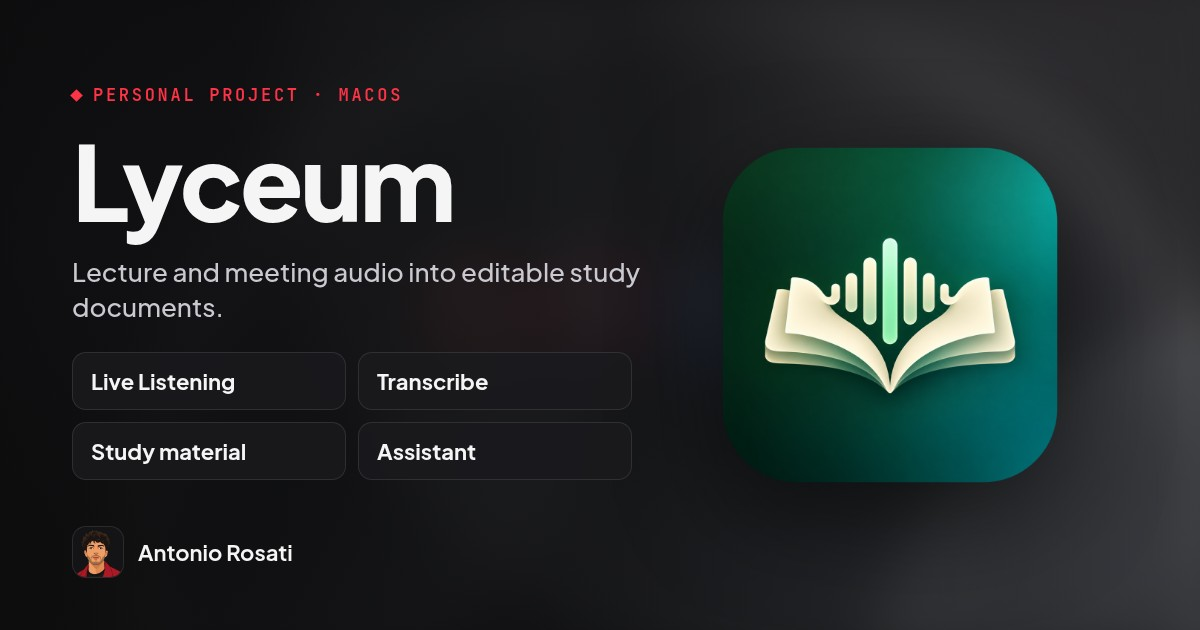
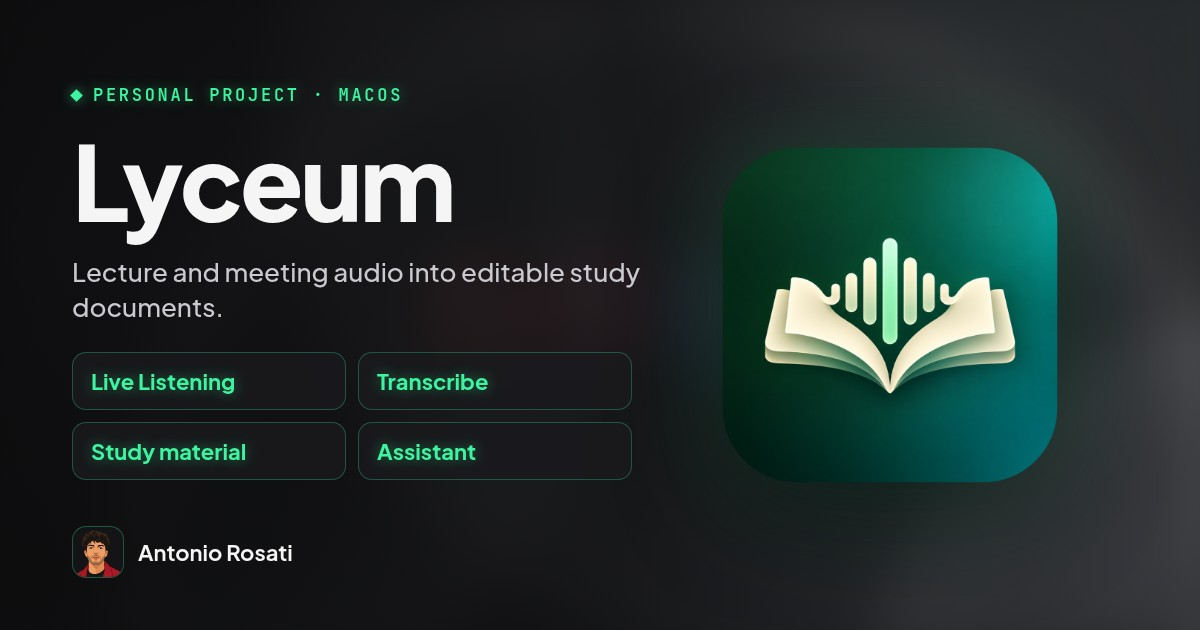
Make the Lyceum section fully green (#9)

diff --git a/css/style.css b/css/style.css
@@ -975,3 +975,67 @@ html[data-theme="dark"] .card-green { --lyc-green: #3DF5A0; --lyc-green-soft: rg
 .card-green .arrow-link svg { filter: drop-shadow(0 0 6px var(--lyc-green-glow)); }
 .card-green.card-glow::after { background: radial-gradient(70% 60% at 100% 0%, var(--lyc-green-soft), transparent 70%); }
 .card-green:hover { border-color: var(--lyc-green-line); }
+
+/* ---------- Lyceum green: every Lyceum-related surface ----------
+   .lyc re-points the accent tokens to the app's green (neon mint + halo in
+   dark, emerald without halo in light). Used on lyceum.html <main>, the home
+   flagship + feature cards, and Lyceum mentions on About. Nav/footer stay red. */
+.lyc, body.theme-lyceum .ag-fx {
+  --accent: #067A50;
+  --accent-ink: #FFFFFF;
+  --accent-soft: rgba(6, 122, 80, 0.09);
+  --accent-line: rgba(6, 122, 80, 0.32);
+  --focus: 0 0 0 2px var(--bg), 0 0 0 4px #067A50;
+  --lyc-halo: transparent;
+}
+body.theme-lyceum { --glow: rgba(6, 122, 80, 0.08); }
+html[data-theme="dark"] .lyc, html[data-theme="dark"] body.theme-lyceum .ag-fx {
+  --accent: #3DF5A0;
+  --accent-ink: #04140D;
+  --accent-soft: rgba(61, 245, 160, 0.10);
+  --accent-line: rgba(61, 245, 160, 0.36);
+  --focus: 0 0 0 2px var(--bg), 0 0 0 4px #3DF5A0;
+  --shadow-lift: 0 34px 80px -30px rgba(0, 0, 0, 0.9), 0 0 0 1px rgba(61, 245, 160, 0.18);
+  --lyc-halo: rgba(61, 245, 160, 0.38);
+}
+html[data-theme="dark"] body.theme-lyceum { --glow: rgba(40, 230, 150, 0.10); }
+@media (prefers-color-scheme: dark) {
+  html:not([data-theme="light"]) .lyc, html:not([data-theme="light"]) body.theme-lyceum .ag-fx {
+    --accent: #3DF5A0;
+    --accent-ink: #04140D;
+    --accent-soft: rgba(61, 245, 160, 0.10);
+    --accent-line: rgba(61, 245, 160, 0.36);
+    --focus: 0 0 0 2px var(--bg), 0 0 0 4px #3DF5A0;
+    --shadow-lift: 0 34px 80px -30px rgba(0, 0, 0, 0.9), 0 0 0 1px rgba(61, 245, 160, 0.18);
+    --lyc-halo: rgba(61, 245, 160, 0.38);
+  }
+  html:not([data-theme="light"]) body.theme-lyceum { --glow: rgba(40, 230, 150, 0.10); }
+}
+/* neon halo on accent marks (transparent in light theme) */
+.lyc .ov, .lyc .eyebrow, .lyc .arrow-link, .lyc .pill.red, .lyc .tour-step .num, .lyc .lv-num { text-shadow: 0 0 12px var(--lyc-halo); }
+.lyc .ov::before, .lyc .eyebrow::before { box-shadow: 0 0 10px var(--lyc-halo); }
+.lyc .arrow-link svg { filter: drop-shadow(0 0 6px var(--lyc-halo)); }
+.lyc .key-ink path.key-ul { filter: drop-shadow(0 0 3px var(--lyc-halo)); }
+.lyc .btn.primary { box-shadow: 0 10px 30px -12px var(--accent), 0 0 18px var(--lyc-halo); }
+.lyc.card-glow::after, .lyc .card-glow::after { background: radial-gradient(70% 60% at 100% 0%, var(--accent-soft), transparent 70%); }
+
+/* Lyceum page: boxes light up only on hover / keyboard focus / tap —
+   no scroll-driven or automatic highlight. */
+.theme-lyceum .tour-step.is-active .tour-step-btn { border-color: var(--line); box-shadow: none; }
+.theme-lyceum .tour-step.is-active .num { color: var(--ink-faint); text-shadow: none; }
+.theme-lyceum .tour-step .tour-step-btn:hover,
+.theme-lyceum .tour-step .tour-step-btn:focus-visible,
+.theme-lyceum .tour-step .tour-step-btn:active {
+  border-color: var(--accent-line);
+  box-shadow: var(--shadow-lift), 0 0 0 1px var(--accent-line), 0 0 24px -6px var(--lyc-halo);
+}
+.theme-lyceum .tour-step .tour-step-btn:hover .num,
+.theme-lyceum .tour-step .tour-step-btn:focus-visible .num,
+.theme-lyceum .tour-step .tour-step-btn:active .num { color: var(--accent); text-shadow: 0 0 12px var(--lyc-halo); }
+.theme-lyceum main .card { transition: border-color 0.35s var(--ease), box-shadow 0.45s var(--ease); }
+.theme-lyceum main .card:hover,
+.theme-lyceum main .card:focus-within,
+.theme-lyceum main .card:active {
+  border-color: var(--accent-line);
+  box-shadow: 0 0 0 1px var(--accent-line), 0 0 28px -8px var(--lyc-halo);
+}

diff --git a/about.html b/about.html
@@ -111,7 +111,7 @@
           <div class="prose">
             <p>I am an <span data-key="msc" data-mark="underline">MSc student in AI for Business Transformation at H-FARM College</span> in Roncade, Italy. The degree is awarded by the University of Chichester: <span data-key="ects" data-mark="highlight">90 ECTS</span>, taught in English, from September 2026 to July 2027.</p>
             <p>I build working <span data-key="aienabled" data-mark="highlight">AI-enabled software</span>, and I am working towards roles in <span data-key="fde" data-mark="highlight">Forward Deployed Engineering</span> — and towards AI and software engineering internships more broadly.</p>
-            <p>This year I have been making <a href="lyceum.html" data-key="lyceum" data-mark="underline">Lyceum</a>, a <span data-key="macos" data-mark="highlight">native macOS app</span>, and I took part in <a href="audi.html" data-key="hack" data-mark="underline">H-ACK Audi</a>.</p>
+            <p>This year I have been making <a class="lyc" href="lyceum.html" data-key="lyceum" data-mark="underline">Lyceum</a>, a <span data-key="macos" data-mark="highlight">native macOS app</span>, and I took part in <a href="audi.html" data-key="hack" data-mark="underline">H-ACK Audi</a>.</p>
             <p>I previously completed a BSc in Mechanical Engineering at the Politecnico di Bari, in 2025.</p>
             <p>Italian is my first language, and I also work in English.</p>
           </div>
@@ -121,7 +121,7 @@
           <p class="ov">Tools and practice</p>
           <h2>What I work with</h2>
           <ul class="principles">
-            <li><div><strong>In Lyceum.</strong> <span>Swift and SwiftUI; <span data-key="whisper" data-mark="highlight">on-device speech-to-text with Whisper and MLX</span>; multi-provider LLM integration, including local models; and DOCX generation from several sources.</span></div></li>
+            <li class="lyc"><div><strong>In Lyceum.</strong> <span>Swift and SwiftUI; <span data-key="whisper" data-mark="highlight">on-device speech-to-text with Whisper and MLX</span>; multi-provider LLM integration, including local models; and DOCX generation from several sources.</span></div></li>
             <li><div><strong>From the first term of the MSc,</strong> <span>at course and academic-project level. Python for data analysis (including Pandas and NumPy); SQL, ETL, relational databases and data warehousing; large language models, RAG and agentic systems; and digital transformation strategy.</span></div></li>
             <li><div><strong>Also.</strong> <span>Prompt engineering; Git and Xcode; HTML, CSS and JavaScript at a basic level.</span></div></li>
           </ul>

diff --git a/js/main.js b/js/main.js
@@ -422,6 +422,11 @@
     var TEXT_SEL = "h1, h2, h3, p, li, figcaption, .lede, .work-note, .nav, .ov, .eyebrow, .meta, .tour-step-btn, .lv-tab, .lv-toggle, .footer-links a, .btn, .email, .pill, .metric, .sec-lede, .levels-intro";
     var MEDIA_SEL = "img, video, .mac, .lv-screen, .phone, .portrait-card, .shot";
     var TARGET_SEL = "h1, h2, h3, .card, .mac, .lv-screen, .phone img, .avc-hero, .portrait-card, .cta, .shot, .float-card, .pill, .btn";
+    /* Lyceum page: boxes are highlighted on hover only — the pointers never
+       click, select or type inside them. */
+    var CALM_BOXES = document.body.classList.contains("theme-lyceum");
+    var CALM_SEL = ".card, .tour-step, .mac, .stack-card, .cta, .pill, .btn, .closing, .project-intro";
+    function inCalmBox(el) { return CALM_BOXES && el && el.closest && !!el.closest(CALM_SEL); }
 
     function rectsOf(sel, pad, minW) {
       var list = [], sy = getScroll();
@@ -442,7 +447,7 @@
     function collectBoxes() {
       boxes = rectsOf(TEXT_SEL, 10, 8).filter(function (b) { return b.w < W * 0.98 || b.h < 220; });
       media = rectsOf(MEDIA_SEL, 2, 40);
-      targets = rectsOf(TARGET_SEL, 0, 40);
+      targets = rectsOf(TARGET_SEL, 0, 40).filter(function (x) { return !inCalmBox(x.el); });
       boxesAt = performance.now();
     }
     function hit(list, x, y, pad) {
@@ -618,6 +623,7 @@
       var cands = [];
       nodes.forEach(function (el) {
         if (el.closest && el.closest("[hidden], template")) return;
+        if (inCalmBox(el)) return;
         var r = el.getBoundingClientRect();
         if (r.bottom < 40 || r.top > H - 40 || r.width < 60) return;
         cands.push(el);
@@ -2180,6 +2186,15 @@
   function initMarks() {
     var els = Array.prototype.slice.call(document.querySelectorAll("[data-key]"));
     if (!els.length) return;
+    /* Lyceum page: marks inside boxes are painted still, never drawn live */
+    if (document.body.classList.contains("theme-lyceum")) {
+      var calm = els.filter(function (el) { return el.closest(".card, .tour-step, .stack-card, .cta, .closing, .project-intro"); });
+      els = els.filter(function (el) { return calm.indexOf(el) === -1; });
+      var paintCalm = function () { calm.forEach(function (el) { paintMark(el, 1); }); };
+      if (document.fonts && document.fonts.ready) document.fonts.ready.then(paintCalm); else paintCalm();
+      window.addEventListener("load", paintCalm);
+      if (!els.length) return;
+    }
     if (reduce) {
       els.forEach(function (el) { paintMark(el, 1); });
       var rt;

diff --git a/lyceum.html b/lyceum.html
@@ -26,7 +26,7 @@
   <meta name="author" content="Antonio Rosati">
   <meta property="og:title" content="Lyceum — Antonio Rosati">
   <meta property="og:description" content="A native macOS app for lectures and meetings: Live Listening, Transcribe, Study material and Assistant. Sole author, January 2026–present.">
-  <meta property="og:image" content="https://antoniorosati24.github.io/assets/og-lyceum.jpg?v=20261114">
+  <meta property="og:image" content="https://antoniorosati24.github.io/assets/og-lyceum.jpg?v=20261114b">
   <meta property="og:type" content="article">
   <meta property="og:image:type" content="image/jpeg">
   <meta property="og:image:width" content="1200">
@@ -37,7 +37,7 @@
   <meta name="twitter:card" content="summary_large_image">
   <meta name="twitter:title" content="Lyceum — Antonio Rosati">
   <meta name="twitter:description" content="A native macOS app for lectures and meetings: Live Listening, Transcribe, Study material and Assistant. Sole author, January 2026–present.">
-  <meta name="twitter:image" content="https://antoniorosati24.github.io/assets/og-lyceum.jpg?v=20261114">
+  <meta name="twitter:image" content="https://antoniorosati24.github.io/assets/og-lyceum.jpg?v=20261114b">
   <meta name="twitter:image:alt" content="Lyceum app icon with its four sections: Live Listening, Transcribe, Study material, Assistant">
   <link rel="canonical" href="https://antoniorosati24.github.io/lyceum.html">
   <meta property="og:url" content="https://antoniorosati24.github.io/lyceum.html">
@@ -51,7 +51,7 @@
   <link rel="preload" href="fonts/PlusJakartaSans-Variable.woff2" as="font" type="font/woff2" crossorigin>
   <link rel="preload" href="fonts/JetBrainsMono-Variable.woff2" as="font" type="font/woff2" crossorigin>
 </head>
-<body>
+<body class="theme-lyceum">
   <div class="bg-glow" aria-hidden="true"></div>
   <div class="loader" aria-hidden="true">
     <svg class="loader-ring" viewBox="0 0 120 120" width="120" height="120">
@@ -93,7 +93,7 @@
     </div>
   </header>
 
-  <main id="main">
+  <main id="main" class="lyc">
     <header class="page-hero">
       <div class="wrap" data-reveal>
         <p class="ov">Personal project · January 2026–present · <span data-key="sole" data-mark="underline">Sole author</span></p>

diff --git a/index.html b/index.html
@@ -146,7 +146,7 @@
           <p class="work-note">Two things I have been building. The pointers that wander across the page are only a picture — agents passing quietly through the work.</p>
         </div>
 
-        <a class="card flagship hover card-glow" href="lyceum.html" data-reveal>
+        <a class="card flagship hover card-glow lyc" href="lyceum.html" data-reveal>
           <div>
             <p class="ov">Flagship · Personal project</p>
             <h3><img class="app-icon-sm" src="assets/lyceum/app-icon.png" width="1024" height="1024" alt="">Lyceum</h3>
@@ -164,7 +164,7 @@
           </div>
         </a>
 
-        <div class="grid g-3" style="margin-top: clamp(0.9rem, 1.8vw, 1.4rem)">
+        <div class="grid g-3 lyc" style="margin-top: clamp(0.9rem, 1.8vw, 1.4rem)">
           <article class="card" data-reveal style="--d:40ms">
             <p class="ov">01</p>
             <h3>Home</h3>
